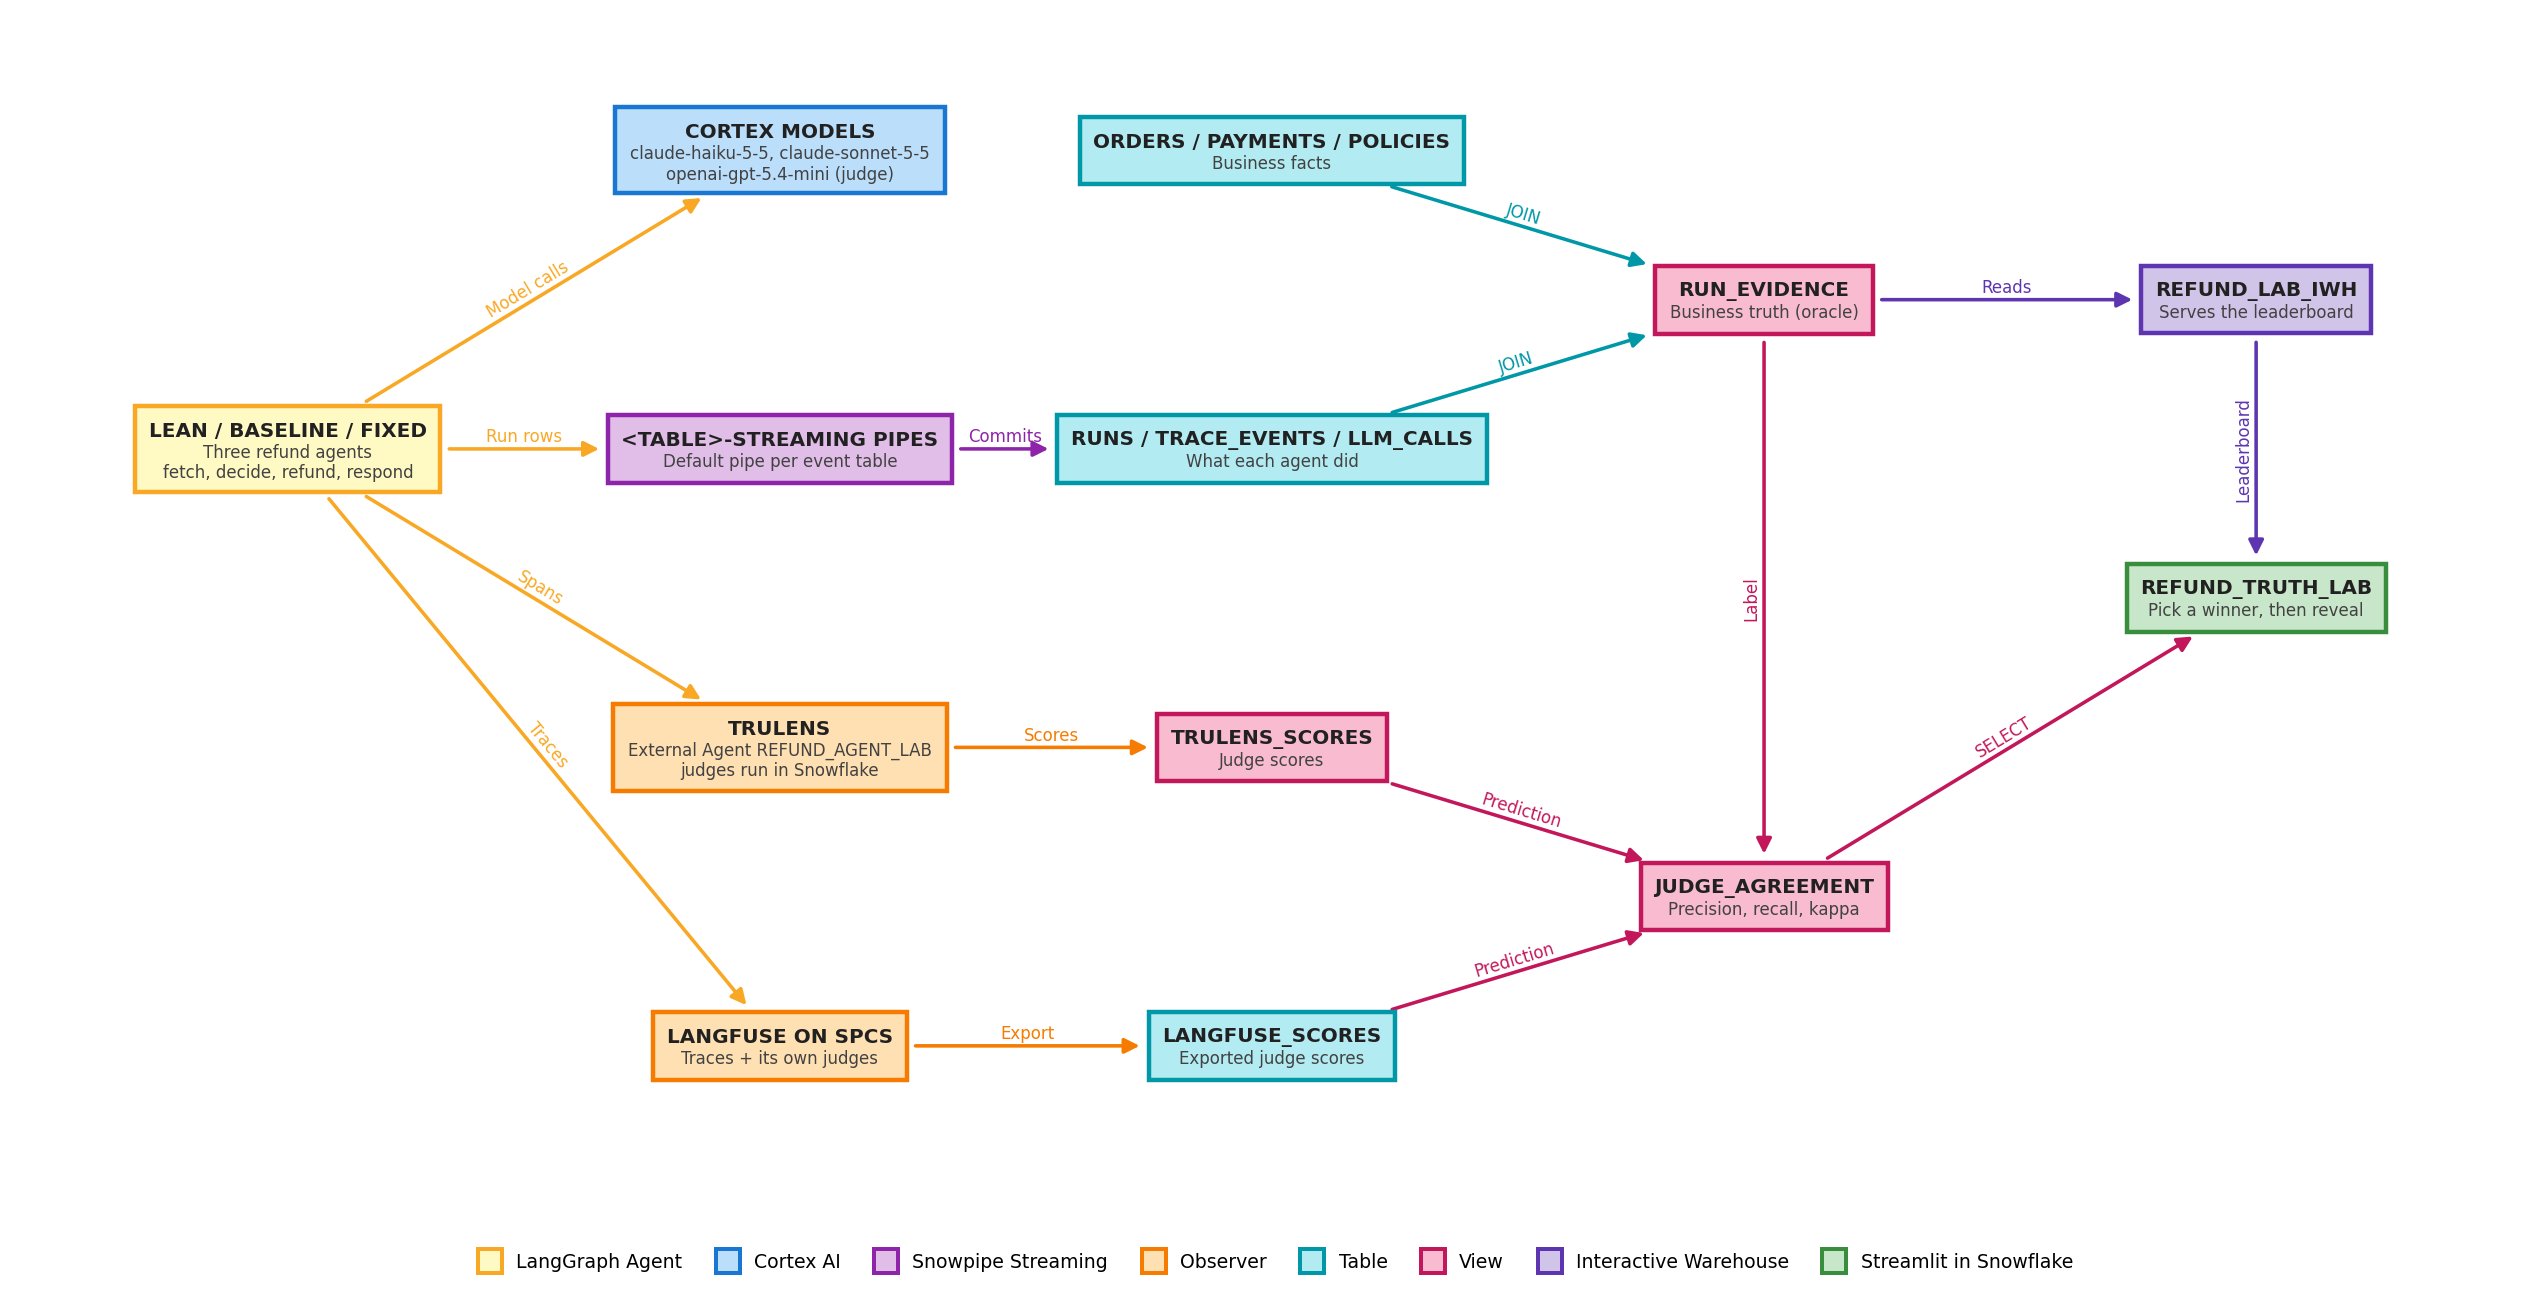
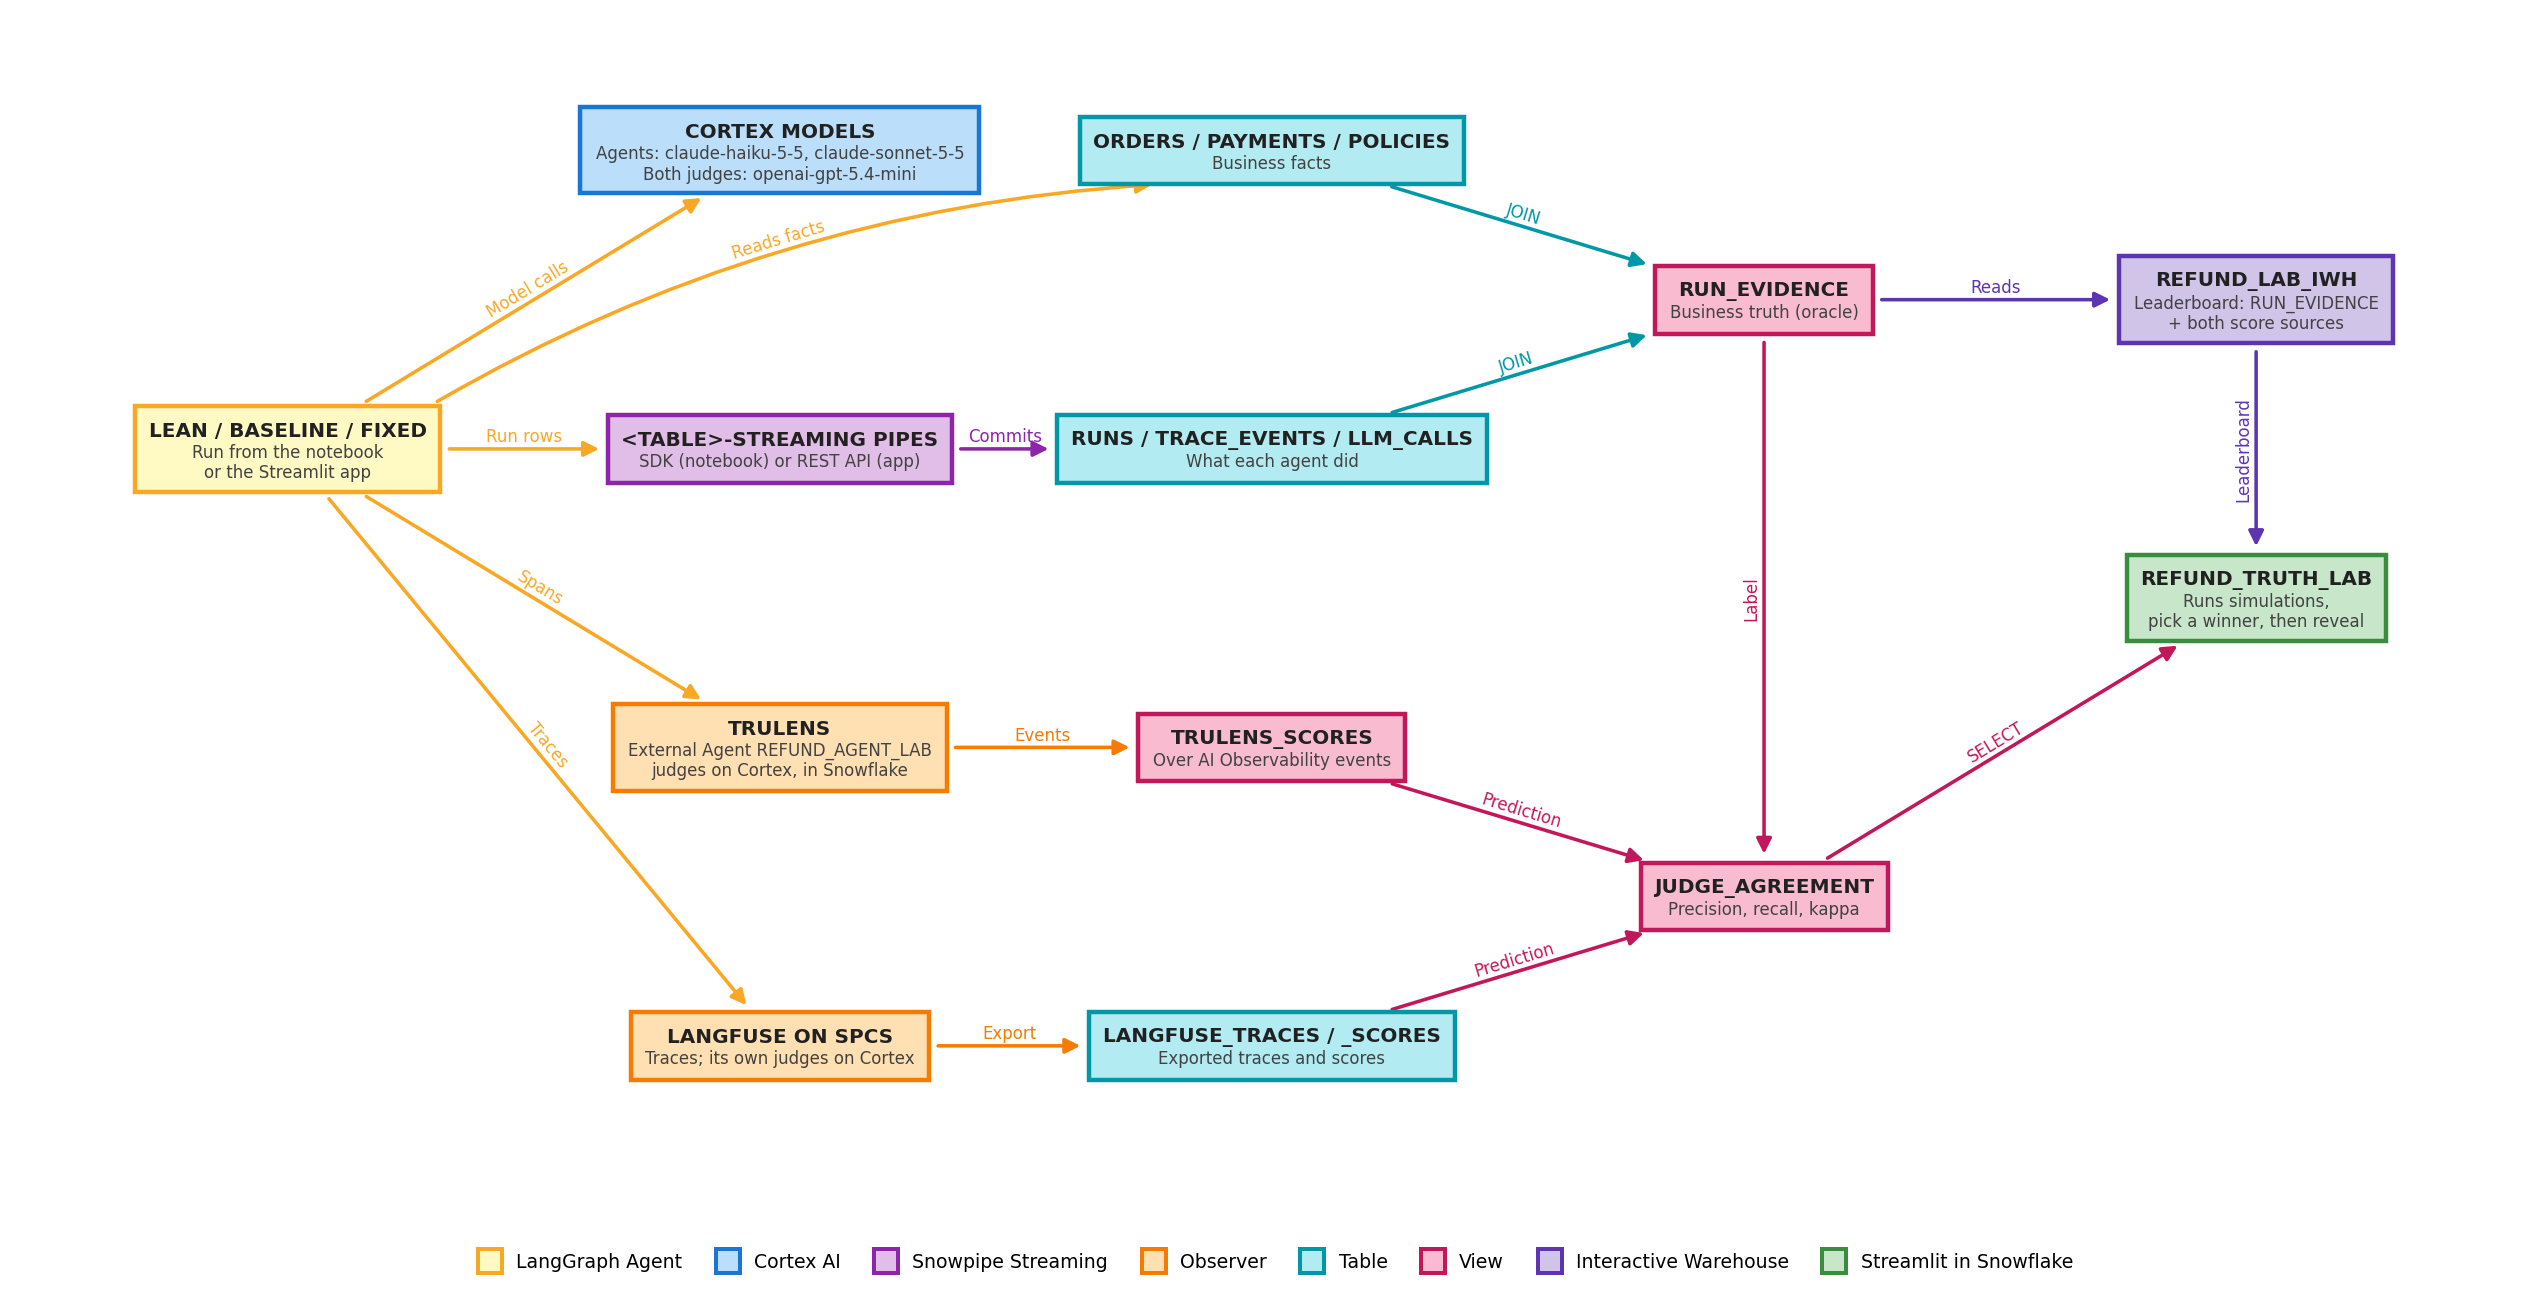
Sync the architecture diagram with the project
Shows the agents reading business facts, both streaming paths, both judges on Cortex, TRULENS_SCORES as a view over AI Observability events, the Langfuse traces export, and the app running simulations.

Generated with [Snowflake CoCo](https://docs.snowflake.com/en/user-guide/cortex-code/cortex-code)

diff --git a/quickstart/build-an-observability-ai-agent-on-snowflake/build-an-observability-ai-agent-on-snowflake.md b/quickstart/build-an-observability-ai-agent-on-snowflake/build-an-observability-ai-agent-on-snowflake.md
@@ -42,14 +42,14 @@ With the prerequisites in place, here's the system you'll have at the end.
 
 ### What You'll Build
 
-![Architecture: three LangGraph agents call Cortex models and stream run rows through Snowpipe Streaming into Snowflake tables; TruLens and Langfuse trace and judge the same runs; the RUN_EVIDENCE view joins runs to business facts, JUDGE_AGREEMENT compares the judges with it, and the Streamlit app reads both, with the leaderboard served by an interactive warehouse.](assets/architecture-diagram.png)
+![Architecture: three LangGraph agents, run from the notebook or the Streamlit app, read business facts, call Cortex models and stream run rows through Snowpipe Streaming into Snowflake tables. TruLens and Langfuse trace the same runs and judge them on Cortex. The RUN_EVIDENCE view joins runs to business facts, JUDGE_AGREEMENT compares both tools' scores with it, and the app reads both, with the leaderboard served by an interactive warehouse.](assets/architecture-diagram.png)
 
-1. **Agents:** three LangGraph refund agents (Lean, Baseline and Fixed) handle each request in four steps and call Cortex models for their decisions and replies.
-2. **Streaming:** every finished run lands in the `RUNS`, `TRACE_EVENTS` and `LLM_CALLS` tables through each table's default Snowpipe Streaming pipe.
-3. **Observers:** TruLens records each agent as a version of one External Agent and judges its runs inside Snowflake. Langfuse, running in your account on Snowpark Container Services, traces the same runs and judges them with its own evaluators. Both judges use the same Cortex model.
+1. **Agents:** three LangGraph refund agents (Lean, Baseline and Fixed) handle each request in four steps. They read the order, payment and policy facts, and call Cortex models for their decisions and replies. You run them from the notebook or from the Streamlit app.
+2. **Streaming:** every finished run lands in the `RUNS`, `TRACE_EVENTS` and `LLM_CALLS` tables through each table's default Snowpipe Streaming pipe: the Python SDK from the notebook, the REST API from the app.
+3. **Observers:** TruLens records each agent as a version of one External Agent and judges its runs inside Snowflake; `TRULENS_SCORES` is a view over the AI Observability events it writes. Langfuse, running in your account on Snowpark Container Services, traces the same runs and judges them with its own evaluators; an export copies its traces and scores into `LANGFUSE_TRACES` and `LANGFUSE_SCORES`. Both tools judge with the same Cortex model, `openai-gpt-5.4-mini`.
 4. **Business truth:** the `RUN_EVIDENCE` view joins each run to the orders, payments and refund policies and decides whether it was right. It never looks at a judge score.
 5. **Judge agreement:** the `JUDGE_AGREEMENT` view treats each judge's scores as predictions and business truth as the label.
-6. **App:** a Streamlit in Snowflake app shows the usual signals first, lets you pick a winning agent, then reveals business truth. An interactive warehouse can serve its leaderboard.
+6. **App:** the Streamlit in Snowflake app runs simulations, shows the usual signals first, lets you pick a winning agent, then reveals business truth and judge agreement. An interactive warehouse can serve its leaderboard, which combines `RUN_EVIDENCE` with both tools' scores.
 
 Before running anything, it helps to know how the three agents differ.
 
